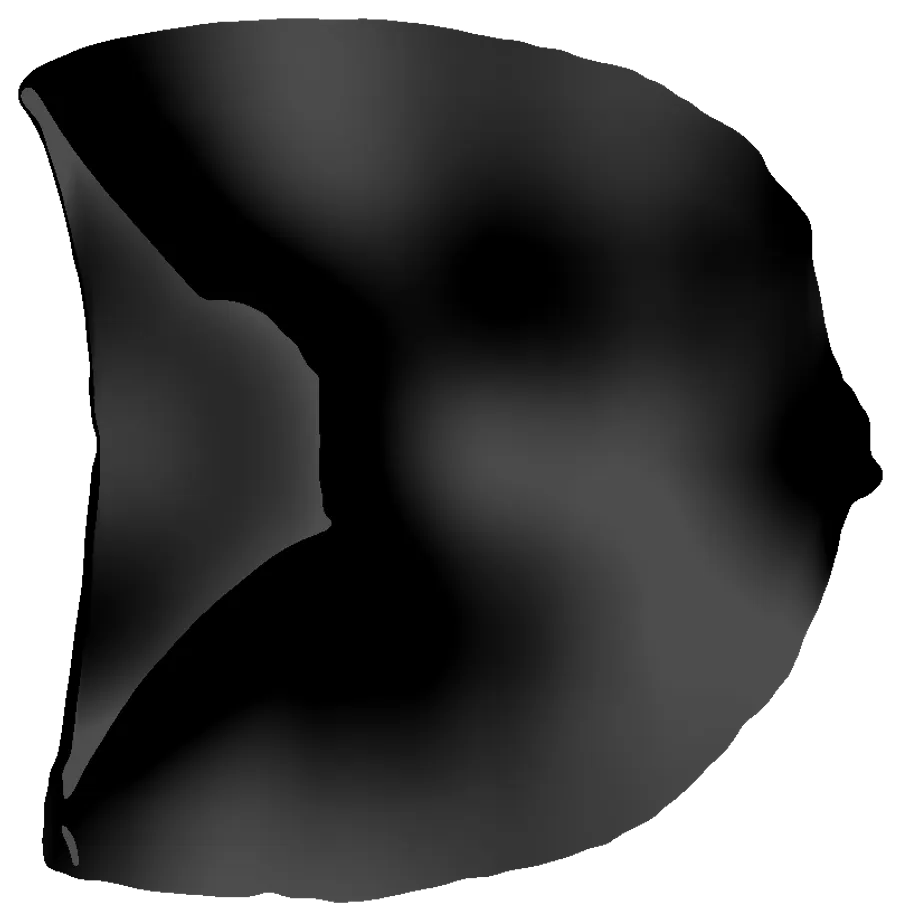
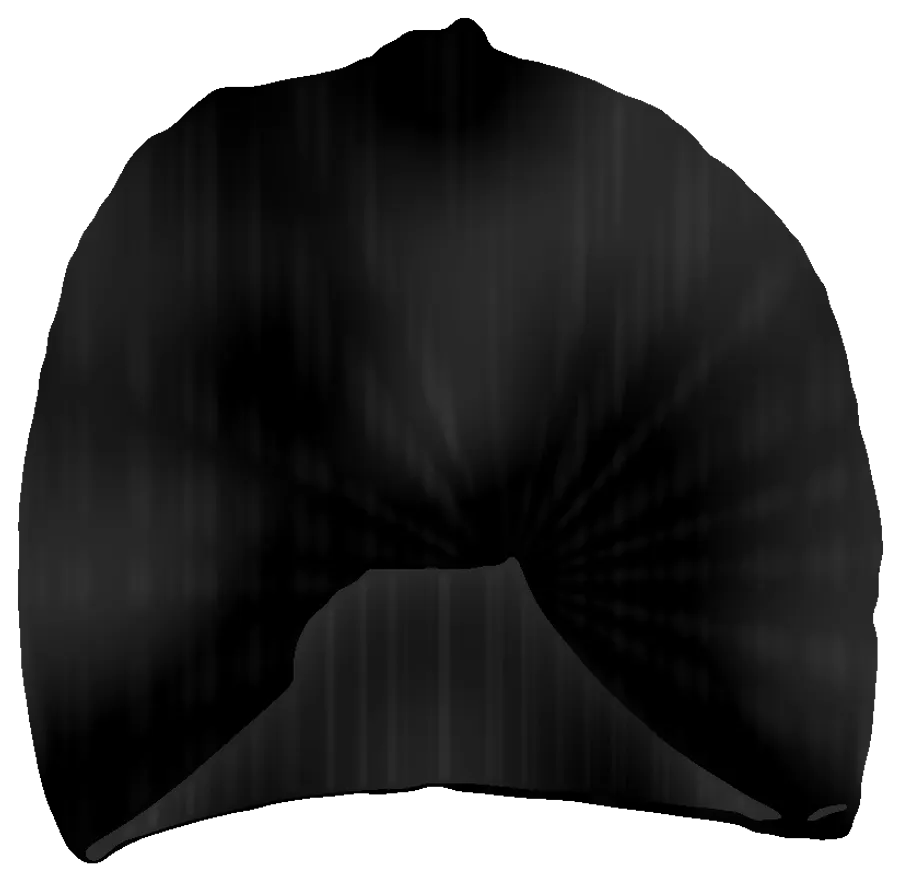
fix(storefront): BIL-2479 Mütze-Konfigurator — Krone oben + Stoffzeichnung
Board-Repro: "mütze beim mützenkonfigurator muss um 90 grad gedreht werden
damit oben oben und unten unten ist". Bestätigt an bilulu.de/konfigurator/muetze.

1. AUSRICHTUNG. Das Studiofoto zeigt die Mütze liegend — Krone nach rechts,
   Krempe an der linken Kante. Alle vier Layer entstehen aus diesem einen Foto,
   also wird die Quelle EINMAL aufgerichtet (rotate -90), bevor irgendeine
   Segmentierung läuft. Damit rotieren Basis und beide Masken zwangsläufig um
   denselben Winkel, die Farbzuordnung kann nicht verrutschen. Sämtliche
   Filter darunter sind isotrop (Median, Distanztransformationen, Gauss), das
   Shading-Ergebnis ist identisch, nur gedreht.

2. CONTAINER-RATIO. Die Rotation tauscht die Garment-Bbox: base.webp ist
   900x880 statt 900x920. ASSET_H nachgezogen — die Vorschau reserviert ihren
   Kasten aus diesem Verhältnis, ein veralteter Wert letterboxt das Foto und
   holt den CLS-Regress von BIL-2206 zurück.
   Dabei aufgefallen: die Hub-Kacheln in konfigurator/page.tsx und der Eintrag
   in _shared/registry.ts trugen noch 900x900 (Hose, real 900x1006) und 900x917
   (Mütze) — beide haben zwei Asset-Rebuilds überlebt, weil das Verhältnis
   dupliziert statt abgeleitet war. Die Kachel bekommt jetzt ein festes
   Quadrat plus object-contain: kann nicht mehr driften, und die Kartentitel
   fluchten wieder, obwohl die Fotos verschiedene Formate haben.
   Gemessen am Production-Build: CLS 0.0000 auf /konfigurator/muetze und
[…]

diff --git a/apps/storefront/src/app/konfigurator/page.tsx b/apps/storefront/src/app/konfigurator/page.tsx
@@ -29,14 +29,14 @@ const TILES: readonly LiveTile[] = [
     name: "Pumphose",
     tagline: "Bund, Hauptteil und Bündchen einzeln einfärben — Hauptteil mit echten Stoff-Mustern.",
     zones: "3 Zonen",
-    image: { src: "/konfigurator/hose-foto/base.webp", width: 900, height: 900 },
+    image: { src: "/konfigurator/hose-foto/base.webp", width: 900, height: 1006 },
   },
   {
     href: "/konfigurator/muetze",
     name: "Mütze",
     tagline: "Hauptstoff aus echten Mustern, Futter uni frei kombinierbar.",
     zones: "2 Zonen",
-    image: { src: "/konfigurator/muetze-foto/base.webp", width: 900, height: 917 },
+    image: { src: "/konfigurator/muetze-foto/base.webp", width: 900, height: 880 },
   },
 ];
 
@@ -71,10 +71,18 @@ export default function KonfiguratorHubPage() {
                 href={tile.href}
                 className="group flex h-full flex-col overflow-hidden rounded-2xl border border-binchen-border bg-binchen-cream-dark/40 transition-shadow hover:shadow-md focus-visible:outline-none focus-visible:ring-2 focus-visible:ring-binchen-sage focus-visible:ring-offset-2"
               >
-                <div
-                  className="relative w-full overflow-hidden bg-binchen-cream"
-                  style={{ aspectRatio: `${tile.image.width} / ${tile.image.height}` }}
-                >
+                {/*
+                  BIL-2479: the tile box is a fixed square for every garment, not
+                  the photo's own ratio. The photos genuinely differ in shape
+                  (900x1006 Pumphose, 900x880 Mütze once it is stood upright), so
+                  a per-tile ratio gives the cards different image heights and the
+                  titles below stop lining up across the grid. `object-contain`
+                  fits each photo inside the square, and because the ratio is a
+                  constant it can never drift out of sync with a rebuilt asset —
+                  which is exactly how the stale 900x900 / 900x917 values here
+                  survived two asset rebuilds.
+                */}
+                <div className="relative aspect-square w-full overflow-hidden bg-binchen-cream">
                   {/* eslint-disable-next-line @next/next/no-img-element */}
                   <img
                     src={tile.image.src}

diff --git a/apps/storefront/src/app/konfigurator/muetze/muetze-photo.tsx b/apps/storefront/src/app/konfigurator/muetze/muetze-photo.tsx
@@ -24,7 +24,12 @@ interface MuetzePhotoProps {
  */
 const ASSET_BASE = "/konfigurator/muetze-foto";
 const ASSET_W = 900;
-const ASSET_H = 920;
+// BIL-2479: the studio shot has the hat lying on its side, so the asset build
+// now stands it upright before segmenting. That swaps the garment bbox and the
+// delivered base is 900x880, not 900x920. This constant has to track the asset
+// exactly — the preview reserves its box from this ratio, so a stale value both
+// letterboxes the photo and reintroduces the CLS regress of BIL-2206.
+const ASSET_H = 880;
 
 export function MuetzePhoto({ paints, title = "Mütze-Vorschau", className }: MuetzePhotoProps) {
   return (

diff --git a/apps/storefront/src/app/konfigurator/_shared/registry.ts b/apps/storefront/src/app/konfigurator/_shared/registry.ts
@@ -88,7 +88,7 @@ const MUETZE: KonfigRegistryEntry = {
   productLabel: "Mütze",
   basePhoto: "/konfigurator/muetze-foto/base.webp",
   width: 900,
-  height: 917,
+  height: 880,
   regions: [
     {
       param: "muetze",
